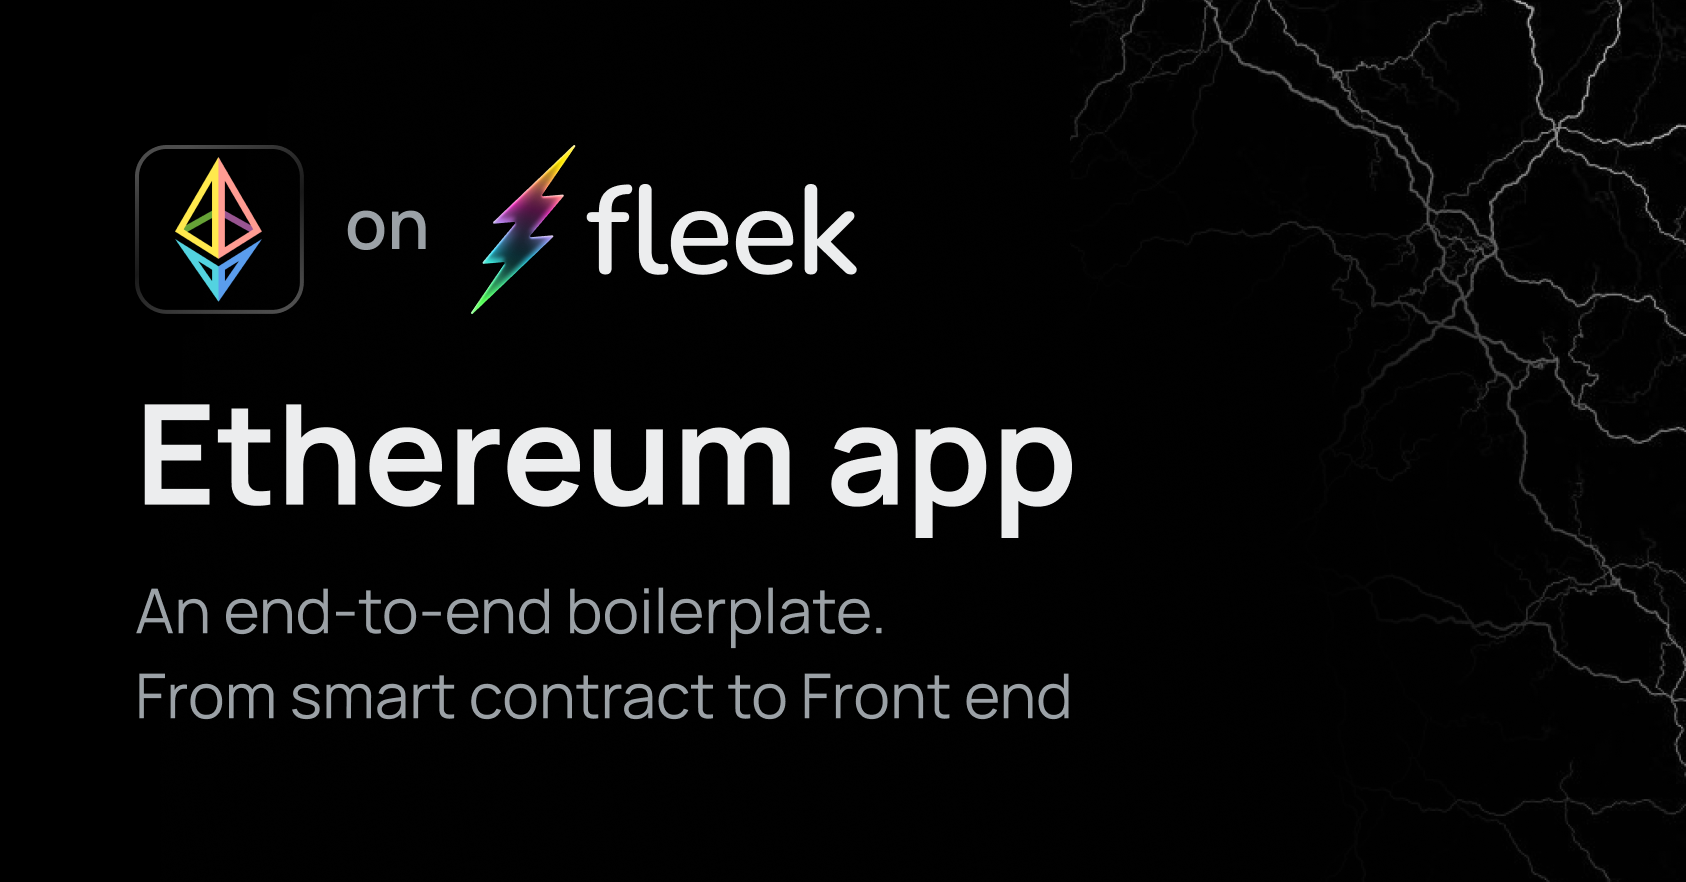
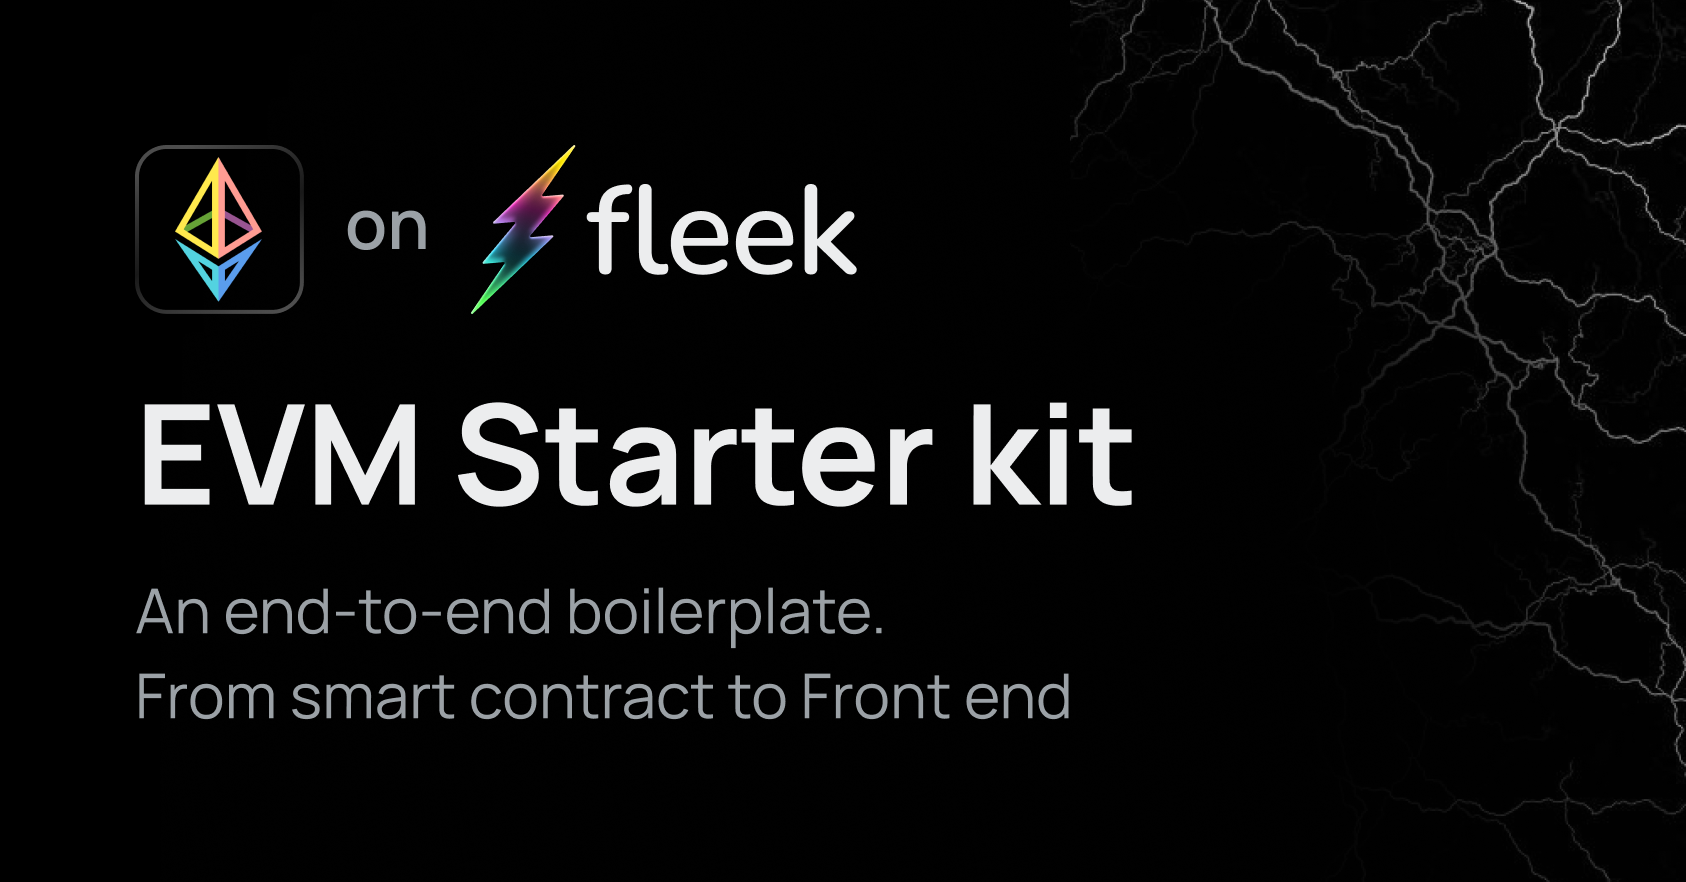
Added clarity regarding EVM

Changed region(s): [[0.1234, 0.4592, 0.6785, 0.6122]]

diff --git a/README.md b/README.md
@@ -1,4 +1,4 @@
-# Ethereum + Fleek Starter Kit
+# EVM + Fleek Starter Kit
 
 ![Preview](./.github/preview.png)
 
@@ -7,11 +7,11 @@
 Dapp Boilerplate that gives you maximum flexibility using oper-source packages, a non-binding stack, and tools giving you a fully customizable experience bootstraped with minimal configuration.
 
 ### Tech-Stack
-- **[Hardhat](https://hardhat.org/):** Development environment for Ethereum.
+- **[Hardhat](https://hardhat.org/):** Development environment for EVM-compatible chains.
 - **[TypeScript](https://www.typescriptlang.org/):** Strongly typed lenguage that builds on JavaScript.
 - **[wagmi](https://wagmi.sh/):** Collection on React Hooks for working with Ethereum.
 - **[RainbowKit](https://www.rainbowkit.com/):** React library to add wallet connection to your Dapp.
-- **[Typechain](https://www.npmjs.com/package/typechain):** Typescript bindings for Ethereum smart contracts.
+- **[Typechain](https://www.npmjs.com/package/typechain):** Typescript bindings for EVM-compatible smart contracts.
 - **[Next.js](https://nextjs.org/):** The React Framework.
 
 ### Quick start
@@ -55,6 +55,42 @@ For customizing the project, please check the [customizing guide](customize.md).
 #### Hardhat
 - `contracts/`: This folder contains all of your contracts, it comes with example `Token.sol` to illustrate the experience.
 - `deploys/`: Each file is meant to deploy a contract, you can check the `001_deploy_token.ts` for an example.
+
+## Hardhat and EVM Compatibility
+
+Hardhat's flexible configuration makes it not just useful for Ethereum but for any EVM-compatible blockchains as well. All you need to do is update the Hardhat configuration file (hardhat.config.ts in this case) to include the network details of the desired blockchain.
+
+The network settings would include the URL of the network's node and the private key for the account used for deployment. Here is a simplified illustration:
+
+```typescript
+// hardhat.config.ts
+
+const config: HardhatUserConfig = {
+  solidity: "0.8.17",
+  networks: {
+    hardhat: {
+      chainId: 1337 // We set 1337 to make interacting with MetaMask simpler
+    },
+    myOtherEvmNetwork: {
+      url: "http://localhost:8545", // your node URL here
+      accounts: ["yourPrivateKey"], // your private key here
+      chainId: 1338 // chainId of your network
+    }
+  },
+  namedAccounts: {
+    deployer: 0,
+    tokenOwner: 1,
+    addr1: 2,
+    addr2: 3,
+  },
+};
+
+export default config;
+```
+
+After this configuration update, you can deploy your contracts to the specified network by running `npx hardhat run --network myOtherEvmNetwork scripts/deploy.ts`.
+
+Remember to replace `"http://localhost:8545"` and `"yourPrivateKey"` with your actual node URL and private key, respectively. This makes Hardhat a powerful and flexible tool for deploying contracts to different EVM-compatible blockchains.
 
 #### Frontend
 - `frontend/`: Contains a minimal NextJS application prepared with `wagmi`, `rainbow kit` & `tailwind`
